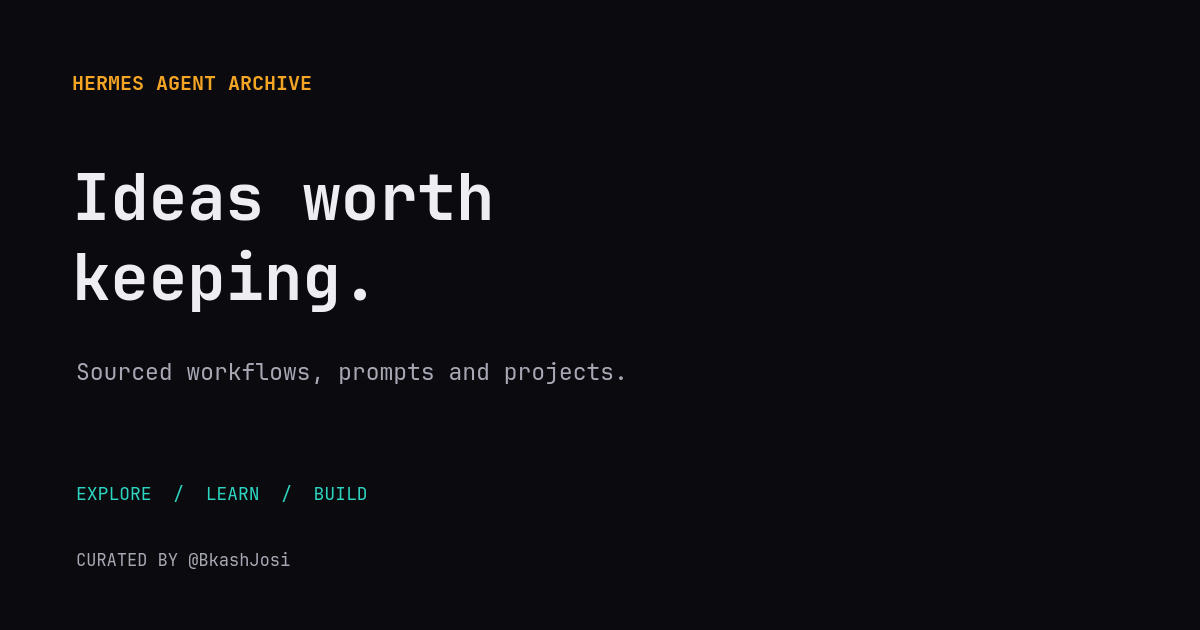
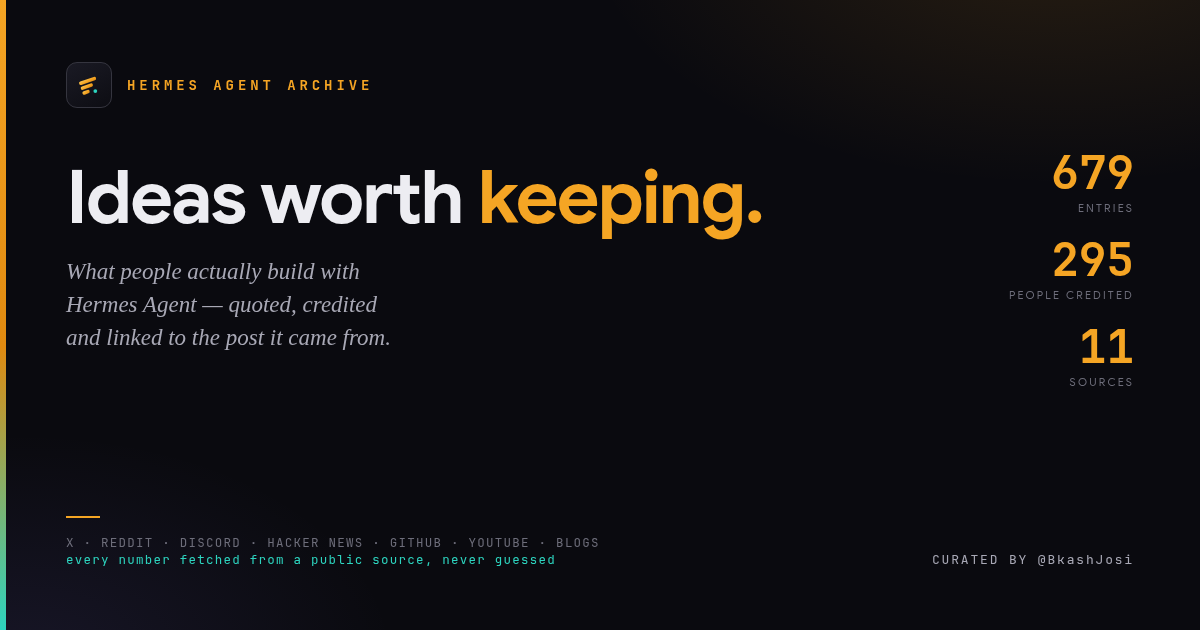
feat: give the repo its images, generated rather than drawn
- a social card carrying the brand mark, the real counts and the source list,
  rendered from assets/og-template.html by scripts/make-og.mjs. It states how
  many entries and credited people the archive holds, so it is generated from
  the data: a card showing a number the site no longer has is the same failure
  as inventing one
- three screenshots of the running site in docs/images, captured against a
  local server
- a README built around them

Capturing them found a real bug. growTo animated widths with fill: 'backwards',
which pins the element at the 0% frame until the animation starts — so every
BY SOURCE bar rendered empty in a headless capture while the figures beside
them were correct. The stagger is now baked into the keyframes with offsets and
the fill mode left alone, so the inline width always wins when the animation
does not play. Recorded in AGENTS.md.

diff --git a/assets/og-template.html b/assets/og-template.html
@@ -1,0 +1,60 @@
+<!doctype html><meta charset="utf-8">
+<link href="https://fonts.googleapis.com/css2?family=Poppins:wght@500;600;700&family=Lora:ital,wght@0,400;1,400&family=JetBrains+Mono:wght@400;700&display=swap" rel="stylesheet">
+<style>
+  *{margin:0;padding:0;box-sizing:border-box}
+  body{
+    width:1200px;height:630px;overflow:hidden;position:relative;
+    background:
+      radial-gradient(760px 420px at 88% -12%,rgba(245,165,36,.13),transparent 62%),
+      radial-gradient(620px 380px at 2% 105%,rgba(139,124,246,.10),transparent 60%),
+      #0a0a0f;
+    color:#ededf2;font-family:'Poppins',sans-serif;
+  }
+  .edge{position:absolute;left:0;top:0;width:6px;height:100%;background:linear-gradient(#f5a524,#e08a10 55%,#2dd4bf)}
+  .wrap{position:absolute;inset:0;padding:62px 66px;display:flex;flex-direction:column;justify-content:space-between}
+  .top{display:flex;align-items:center;gap:15px}
+  .mark{width:46px;height:46px;border-radius:11px;background:linear-gradient(150deg,#1a1a24,#0d0d13);
+        border:1px solid #35353f;display:grid;place-items:center}
+  .mark svg{width:30px;height:30px}
+  .kick{font-family:'JetBrains Mono',monospace;font-size:14px;letter-spacing:.28em;color:#f5a524;font-weight:700}
+  h1{font-size:74px;line-height:.98;font-weight:600;letter-spacing:-.03em;max-width:15ch}
+  h1 em{font-style:normal;color:#f5a524}
+  .sub{font-family:'Lora',serif;font-style:italic;font-size:23px;line-height:1.45;color:#a8a8b5;max-width:30ch;margin-top:20px}
+  .stats{position:absolute;right:66px;top:150px;display:flex;flex-direction:column;gap:22px;text-align:right}
+  .s-v{font-family:'JetBrains Mono',monospace;font-size:46px;font-weight:700;color:#f5a524;line-height:1}
+  .s-k{font-family:'Poppins',sans-serif;font-size:11px;letter-spacing:.2em;text-transform:uppercase;color:#6d6d7a;margin-top:5px}
+  .foot{display:flex;align-items:flex-end;justify-content:space-between}
+  .srcs{font-family:'JetBrains Mono',monospace;font-size:12.5px;letter-spacing:.1em;color:#6d6d7a}
+  .srcs b{color:#2dd4bf;font-weight:400}
+  .by{font-family:'JetBrains Mono',monospace;font-size:13px;letter-spacing:.14em;color:#a8a8b5}
+  .rule{width:34px;height:2px;background:#f5a524;margin-bottom:16px}
+</style>
+<div class="edge"></div>
+<div class="wrap">
+  <div>
+    <div class="top">
+      <span class="mark"><svg viewBox="0 0 64 64">
+        <defs><linearGradient id="g" x1="0" y1="0" x2="1" y2="1">
+          <stop offset="0" stop-color="#f7c452"/><stop offset=".55" stop-color="#f5a524"/><stop offset="1" stop-color="#e08a10"/>
+        </linearGradient></defs>
+        <g transform="rotate(-19 32 32)" fill="url(#g)">
+          <rect x="13" y="19" width="38" height="7.5" rx="3.75"/>
+          <rect x="13" y="30" width="27" height="7.5" rx="3.75"/>
+          <rect x="13" y="41" width="16" height="7.5" rx="3.75"/>
+        </g><circle cx="45.5" cy="45" r="4" fill="#2dd4bf"/></svg></span>
+      <span class="kick">HERMES AGENT ARCHIVE</span>
+    </div>
+    <div style="margin-top:54px">
+      <h1>Ideas worth <em>keeping.</em></h1>
+      <p class="sub">What people actually build with Hermes Agent — quoted, credited and linked to the post it came from.</p>
+    </div>
+  </div>
+  <div class="foot">
+    <div>
+      <div class="rule"></div>
+      <div class="srcs">X · REDDIT · DISCORD · HACKER NEWS · GITHUB · YOUTUBE · BLOGS<br><b>every number fetched from a public source, never guessed</b></div>
+    </div>
+    <div class="by">CURATED BY @BkashJosi</div>
+  </div>
+</div>
+<div class="stats"><!--STATS--></div>

diff --git a/assets/js/app.js b/assets/js/app.js
@@ -256,9 +256,18 @@ function countUp(el, value) { el.textContent = num(value); }
 function growTo(el, target, delay = 0) {
   el.style.width = target;
   if (REDUCED || document.hidden || typeof el.animate !== 'function') return;
-  el.animate([{ width: '0%' }, { width: target }], {
-    duration: 620, delay, easing: 'cubic-bezier(.22,.7,.3,1)', fill: 'backwards'
-  });
+  /* The stagger is baked into the keyframes rather than expressed as `delay`
+     with `fill: backwards`. That fill mode pins the element at the 0% frame for
+     as long as the animation has not started — and an animation that never
+     advances (a headless render, a paused compositor) then leaves an empty bar
+     where a real figure should be. With no fill, the inline width above always
+     wins if the animation does not play. */
+  const total = 620 + delay;
+  const hold = total ? delay / total : 0;
+  el.animate(
+    [{ width: '0%', offset: 0 }, { width: '0%', offset: hold }, { width: target, offset: 1 }],
+    { duration: total, easing: 'cubic-bezier(.22,.7,.3,1)' }
+  );
 }
 
 function growBars(root) {

diff --git a/README.md b/README.md
@@ -1,21 +1,30 @@
+![Hermes Agent Archive](assets/social-preview.png)
+
 # Hermes Agent Archive
 
-A private archive of the Hermes Agent craft people actually use — **user stories, skills,
-prompts, settings, commands, hidden tricks** and **community builds** — filterable by
-where it showed up (X, Reddit, Discord, Hacker News, GitHub, YouTube, blogs, podcasts).
+**679 entries. Every number fetched from a public source, never guessed.**
 
-Static site. No build step, no framework, no dependencies. Content is plain JSON.
+What people actually build with Hermes Agent — quoted, credited, and linked to the post
+it came from. Zero dependencies, no build step, content in plain JSON.
 
-```
-index.html              the page
-assets/css/style.css    the newsroom-console theme
-assets/js/app.js        loading, filtering, ranking, detail drawer
-data/index.json         sections, sources, sort options
-data/*.json             one file per section — this is the content
-data/live.json          generated: real numbers from public APIs
-scripts/fetch-signals.mjs   pulls GitHub / HN / Reddit metrics
-scripts/check-data.mjs      validates every data file
-```
+## What it looks like
+
+### The archive
+Filter by source, tag, author or time. `Cmd/Ctrl+K` searches every entry.
+
+![Use cases shelf](docs/images/use-cases.png)
+
+### The dashboard
+Counted live from what is loaded. Each metric kind stays on its own row — stars, points,
+impressions and upvotes measure different things and are never summed into one figure.
+
+![Dashboard](docs/images/dashboard.png)
+
+### My Work
+The author's own posts, with impression counts credited to their X analytics exports.
+Every figure on the site states where it came from.
+
+![My Work shelf](docs/images/my-work.png)
 
 ## Run it locally
 
@@ -170,6 +179,19 @@ node scripts/rank-with-jev.mjs --weights 0.5,0.4,0.1   # re-weight fit,value,eff
 Candidates live in `data/research/jev-use-cases.json` (top posts from the public Jev
 builder directory); results are written to `data/research/jev-ranking.json`. The key
 stays in your shell and is never written to the repo.
+
+## Images
+
+```bash
+node scripts/make-og.mjs      # regenerate assets/social-preview.png from real counts
+```
+
+The social card states how many entries and credited people the archive holds, so it is
+generated from the data rather than maintained by hand — a card showing a number the site
+no longer has is the same failure as inventing one. Needs `chromium` on PATH, because
+Poppins and Lora are loaded from Google Fonts and would otherwise be substituted.
+
+Screenshots in `docs/images/` are captured the same way, against a local server.
 
 ## The honesty rule
 

diff --git a/AGENTS.md b/AGENTS.md
@@ -135,6 +135,11 @@ nobody measured, which is the one thing this site must not show.
 Use the Web Animations API for widths and strokes (the resting style stays correct),
 `document.hidden` and `prefers-reduced-motion` as early exits.
 
+Never use `fill: 'backwards'` for this. It pins the element at the 0% frame until the
+animation starts, so an animation that never advances — a headless render, a paused
+compositor — leaves an empty bar where a real figure belongs. Bake any stagger into the
+keyframes with offsets instead, and leave the fill mode alone.
+
 ## Browser gotchas
 
 Before deployment, run `vercel deploy --dry --json` and verify every runtime asset
